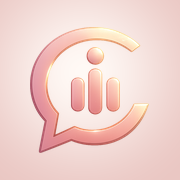
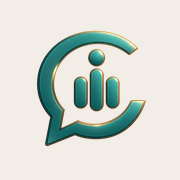
feat(aura): apply product branding and PWA identity

diff --git a/index.html b/index.html
@@ -3,21 +3,21 @@
   <head>
     <meta charset="UTF-8" />
     <meta name="viewport" content="width=device-width, initial-scale=1.0" />
-    <meta name="theme-color" content="#c96f73" />
-    <meta name="background-color" content="#f7f3ee" />
+    <meta name="theme-color" content="#2F6F68" />
+    <meta name="background-color" content="#F2EEE7" />
     <meta name="mobile-web-app-capable" content="yes" />
-    <meta name="application-name" content="COSTABOTS Beauty" />
+    <meta name="application-name" content="AURA by COSTABOTS" />
     <meta name="apple-mobile-web-app-capable" content="yes" />
-    <meta name="apple-mobile-web-app-title" content="Beauty" />
+    <meta name="apple-mobile-web-app-title" content="AURA" />
     <meta name="apple-mobile-web-app-status-bar-style" content="default" />
     <!-- Orientation intentionally not locked to allow tablet landscape mode. -->
-    <link rel="manifest" href="/manifest.json?v=20260729b" />
-    <link rel="icon" href="/favicon.ico?v=20260729b" sizes="any" />
-    <link rel="icon" type="image/png" sizes="16x16" href="/favicon-16x16.png?v=20260729b" />
-    <link rel="icon" type="image/png" sizes="32x32" href="/favicon-32x32.png?v=20260729b" />
-    <link rel="apple-touch-icon" href="/apple-touch-icon.png?v=20260729b" />
-    <meta name="description" content="Manager mobile-first para negocios de belleza con agenda y recepción inteligente." />
-    <title>COSTABOTS Beauty</title>
+    <link rel="manifest" href="/manifest.json?v=20261008b" />
+    <link rel="icon" href="/favicon.ico?v=20261008a" sizes="any" />
+    <link rel="icon" type="image/png" sizes="16x16" href="/favicon-16x16.png?v=20261008a" />
+    <link rel="icon" type="image/png" sizes="32x32" href="/favicon-32x32.png?v=20261008a" />
+    <link rel="apple-touch-icon" href="/apple-touch-icon.png?v=20261008a" />
+    <meta name="description" content="AURA by COSTABOTS: agenda, clientes y recepción inteligente para profesionales." />
+    <title>AURA by COSTABOTS</title>
   </head>
   <body>
     <div id="root"></div>

diff --git a/src/features/beauty/components/WhatsAppIntegration.tsx b/src/features/beauty/components/WhatsAppIntegration.tsx
@@ -261,12 +261,12 @@ export function SupabaseWhatsAppInbox({
     <div className="whatsapp-handoff">
       {selected.mode === 'ai'
         ? <button disabled={working} onClick={() => {
-          if (window.confirm('¿Tomar esta conversación? COSTABOTS dejará de responder automáticamente hasta que la devuelvas a la atención automática.')) void mutate(() => takeConversation(selected.id));
+          if (window.confirm('¿Tomar esta conversación? AURA dejará de responder automáticamente hasta que la devuelvas a la atención automática.')) void mutate(() => takeConversation(selected.id));
         }} className="whatsapp-handoff__action" type="button">Tomar conversación</button>
         : <button disabled={working} onClick={() => {
-          if (window.confirm('¿Devolver la conversación a la atención automática? COSTABOTS volverá a responder a los próximos mensajes.')) void mutate(() => releaseConversation(selected.id));
+          if (window.confirm('¿Devolver la conversación a la atención automática? AURA volverá a responder a los próximos mensajes.')) void mutate(() => releaseConversation(selected.id));
         }} className="whatsapp-handoff__action" type="button">Devolver a la IA</button>}
-      <small>{selected.mode === 'ai' ? 'COSTABOTS responde automáticamente a los próximos mensajes.' : 'Atención manual activa: COSTABOTS no responderá automáticamente en esta conversación.'}</small>
+      <small>{selected.mode === 'ai' ? 'AURA responde automáticamente a los próximos mensajes.' : 'Atención manual activa: AURA no responderá automáticamente en esta conversación.'}</small>
     </div>
     <div className="whatsapp-message-history">
       {messages.length >= messageLimit && <button className="load-older" onClick={() => setMessageLimit((value) => value + 50)} type="button">Cargar anteriores</button>}

diff --git a/src/features/auth/pages/LoginPage.tsx b/src/features/auth/pages/LoginPage.tsx
@@ -25,7 +25,7 @@ export function LoginPage({ onForgotPassword, onSignUp }: { onForgotPassword: ()
 
   return (
     <AuthShell
-      footer={<>Acceso exclusivo para equipos de negocios COSTABOTS.</>}
+      footer={<>AURA es una solución profesional de COSTABOTS.</>}
       subtitle="Tu agenda, clientes y recepcionista inteligente en un solo lugar."
       title="Bienvenida de nuevo"
     >
@@ -41,7 +41,7 @@ export function LoginPage({ onForgotPassword, onSignUp }: { onForgotPassword: ()
         {error && <p className="auth-message auth-message--error" role="alert">{error}</p>}
         <button className="auth-primary-button" disabled={loading} type="submit">{loading ? 'Iniciando sesión…' : 'Iniciar sesión'}</button>
         <button className="auth-link-button" onClick={onForgotPassword} type="button">¿Has olvidado tu contraseña?</button>
-        {onSignUp && <div className="auth-separator"><span>¿Primera vez en COSTABOTS?</span><button className="auth-secondary-button" onClick={onSignUp} type="button">Crear cuenta</button></div>}
+        {onSignUp && <div className="auth-separator"><span>¿Primera vez en AURA?</span><button className="auth-secondary-button" onClick={onSignUp} type="button">Crear cuenta</button></div>}
       </form>
     </AuthShell>
   );

diff --git a/src/features/beauty/BeautyApp.tsx b/src/features/beauty/BeautyApp.tsx
@@ -632,7 +632,7 @@ function MorePage({ businessName, mode, navigate, onSignOut, progress, serviceCo
   return (
     <div className="beauty-page">
       <PageHeader eyebrow="Tu espacio de trabajo" title="Más" />
-      <section className="business-card"><BeautyBrandMark size="lg" /><span><strong>{businessName}</strong><small>COSTABOTS · Sesión protegida</small></span><ShieldCheck size={20} /></section>
+      <section className="business-card"><BeautyBrandMark size="lg" /><span><strong>{businessName}</strong><small>AURA by COSTABOTS · Sesión protegida</small></span><ShieldCheck size={20} /></section>
       <div className="more-list">
         {items.map(({ icon: Icon, label, detail, route, state }) => <button disabled={!route} key={label} onClick={() => route && navigate(route)} type="button"><span className="more-list__icon"><Icon size={21} /></span><span><strong>{label}</strong><small>{detail}</small></span>{state && <FeatureStateBadge state={state} />}{!route && <FeatureStateBadge state="soon" />}</button>)}
       </div>

diff --git a/src/features/beauty/components/BeautyBrand.tsx b/src/features/beauty/components/BeautyBrand.tsx
@@ -5,7 +5,7 @@ type BeautyBrandMarkProps = {
   size?: 'sm' | 'md' | 'lg';
 };
 
-const beautySymbol = '/branding/ui-symbol-transparent-256.png?v=20260729b';
+const beautySymbol = '/branding/ui-symbol-transparent-256.png?v=20261008a';
 
 export function BeautyBrandMark({ className = '', size = 'md' }: BeautyBrandMarkProps) {
   return (
@@ -17,9 +17,9 @@ export function BeautyBrandMark({ className = '', size = 'md' }: BeautyBrandMark
 
 export function BeautyBrandLockup() {
   return (
-    <div className="beauty-brand-lockup" aria-label="COSTABOTS">
+    <div className="beauty-brand-lockup" aria-label="AURA by COSTABOTS">
       <BeautyBrandMark />
-      <span><strong>COSTABOTS</strong></span>
+      <span><strong>AURA</strong><small>by COSTABOTS</small></span>
     </div>
   );
 }

diff --git a/src/features/beauty/components/BeautyBrand.css b/src/features/beauty/components/BeautyBrand.css
@@ -43,11 +43,11 @@
 @supports ((-webkit-mask-image: url("")) or (mask-image: url(""))) {
   .beauty-brand-mark {
     background-color: var(--beauty-brand-mark-color);
-    -webkit-mask-image: url('/branding/ui-symbol-transparent-256.png?v=20260729b');
+    -webkit-mask-image: url('/branding/ui-symbol-transparent-256.png?v=20261008a');
     -webkit-mask-position: center;
     -webkit-mask-repeat: no-repeat;
     -webkit-mask-size: contain;
-    mask-image: url('/branding/ui-symbol-transparent-256.png?v=20260729b');
+    mask-image: url('/branding/ui-symbol-transparent-256.png?v=20261008a');
     mask-mode: alpha;
     mask-position: center;
     mask-repeat: no-repeat;

diff --git a/src/main.tsx b/src/main.tsx
@@ -22,7 +22,7 @@ void import('./features/auth/AuthApp')
       <React.StrictMode>
         <main style={{ minHeight: '100vh', display: 'grid', placeItems: 'center', padding: 24, background: '#f7f3ee', color: '#292724', fontFamily: 'system-ui' }}>
           <section style={{ width: '100%', maxWidth: 460, padding: 28, borderRadius: 24, background: '#fffdfb' }}>
-            <strong>COSTABOTS</strong>
+            <strong>AURA <small>by COSTABOTS</small></strong>
             <h1>Configuración no válida</h1>
             <p>La aplicación se ha bloqueado de forma segura. Revisa las variables de entorno.</p>
           </section>

diff --git a/src/features/auth/pages/ResetPasswordPage.tsx b/src/features/auth/pages/ResetPasswordPage.tsx
@@ -40,7 +40,7 @@ export function ResetPasswordPage({ onComplete }: { onComplete: () => void }) {
         <div className="auth-success" role="status">
           <LockKeyhole size={28} />
           <strong>Contraseña actualizada</strong>
-          <p>Ya puedes continuar a COSTABOTS.</p>
+          <p>Ya puedes continuar a AURA.</p>
           <button className="auth-primary-button" onClick={onComplete} type="button">Continuar</button>
         </div>
       ) : (

diff --git a/src/features/auth/components/MembershipGate.tsx b/src/features/auth/components/MembershipGate.tsx
@@ -92,7 +92,7 @@ export function MembershipGate() {
       <AuthNotice
         action={<button className="auth-primary-button" onClick={() => void signOut()} type="button">Cerrar sesión</button>}
         detail="Pide al administrador del negocio que revise tu invitación o membresía."
-        title="No tienes acceso a ningún negocio de COSTABOTS."
+        title="No tienes acceso a ningún negocio de AURA."
       />
     );
   }

diff --git a/public/sw.js b/public/sw.js
@@ -1,4 +1,4 @@
-const CACHE_NAME = 'costabots-beauty-brand-v3';
+const CACHE_NAME = 'aura-brand-v5';
 const IS_LOCAL_DEV = ['localhost', '127.0.0.1', '::1'].includes(self.location.hostname);
 const APP_SHELL = [
   '/',
